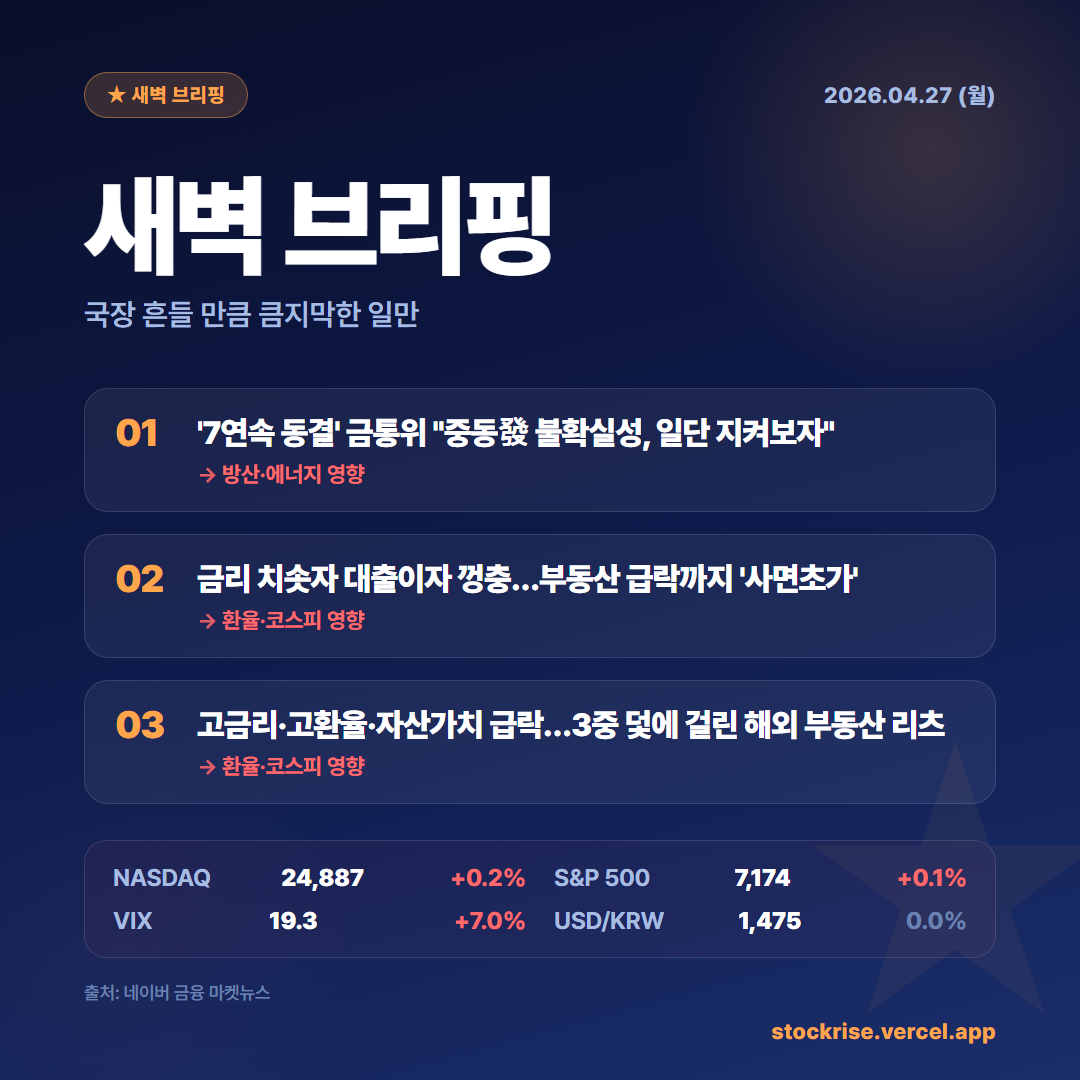
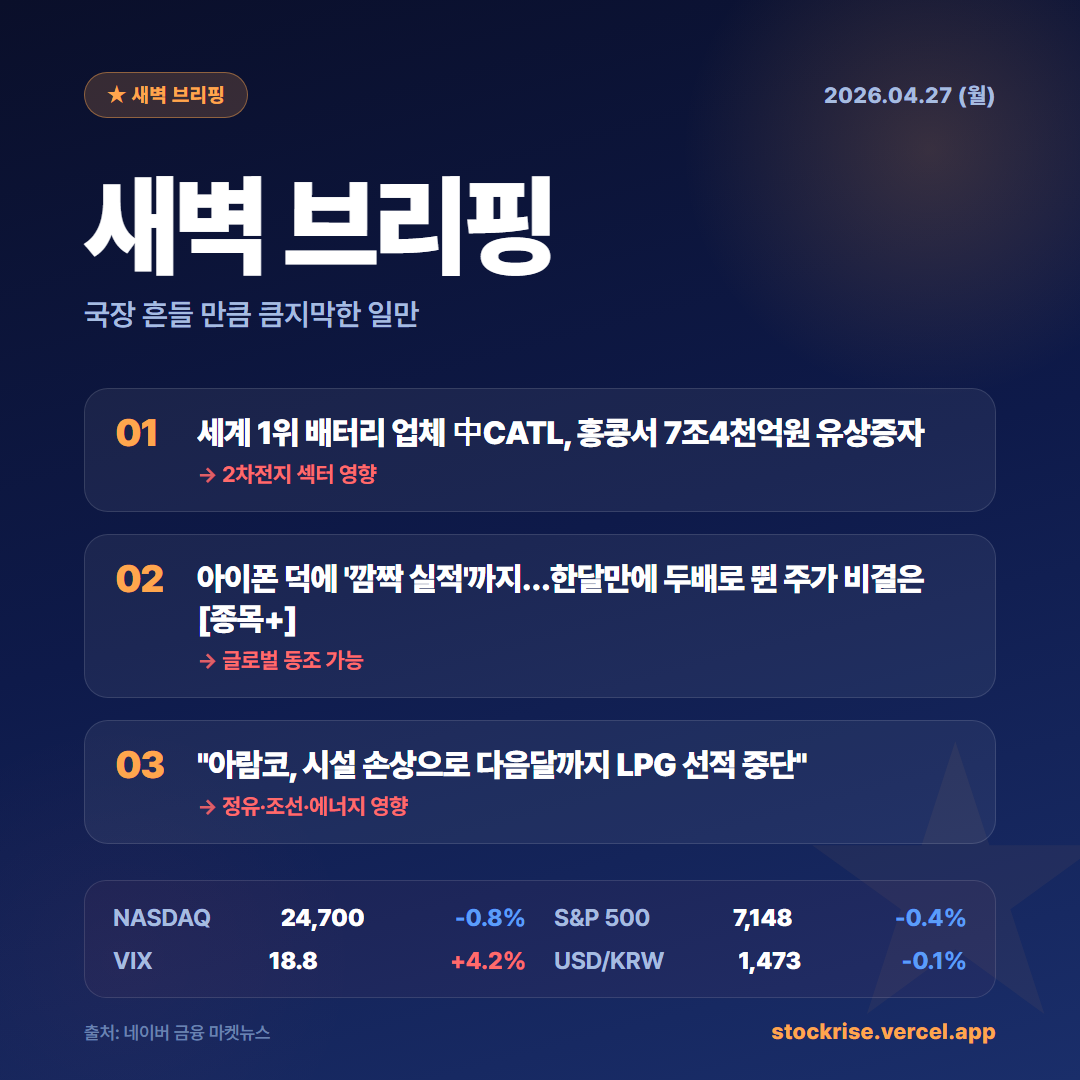
feat(cards): 새벽 브리핑·뉴욕 마감 헤드라인 큐레이션 강화
이슈:
- pre0(새벽 브리핑) 헤드라인이 한국 거시뉴스('한은 금통위') / 미시뉴스
  (ETF 상장)·중복으로 채워져 "진짜 큰 일"과 거리 있음
- pre2(뉴욕 마감)는 지수만 표시, 글로벌 헤드라인 노출 없음

수정:
- dawn_brief.py: 소스 URL → mode=RANK (조회·인용 인기 순)
  헤드라인 풀에서 다음 3중 필터 통과한 것만 채택:
  · DAWN_WHITELIST (Fed·반도체·테슬라·CATL·유가·지정학 등 80+ 키워드)
  · DAWN_BLACKLIST (리츠·회생절차·사채·단독] 등 국내 미시뉴스 차단)
  · 중복 제거 (핵심 키워드 60% 이상 겹치면 같은 사건으로 간주)
- build_pre2: dawn_data.headlines 받아 마켓 무빙 헤드라인 2개 노출
  지수·무드 박스 아래에 같은 디자인 카드로
- pre2.html.tmpl: headlines 영역 추가, 폰트·간격 조정으로 1080 유지
- DAWN_IMPACT_MAP 보강: 철강/소재, 아람코/사우디, CATL/BYD 등 명시
  키워드 매핑 우선순위 재배열 — 더 구체적인 것 먼저
- 검증: pre0·pre2 동일 헤드라인 공유 허용 (자연스러운 양분)

전·후 비교 (4/28):
  Before pre0: '한은 금통위 동결' / 'ETF 상장' / '동결 재방' (국내·중복)
  After  pre0: 'CATL 7조4천억 유상증자' / '아이폰 깜짝 실적' /
              '아람코 LPG 선적 중단' (글로벌·시장 무빙)
  Before pre2: 지수만 / 헤드라인 0개
  After  pre2: 지수 + 무드 + CATL·아이폰 헤드라인 2개

diff --git a/cards/dawn_brief.py b/cards/dawn_brief.py
@@ -25,16 +25,13 @@ except ImportError:
 
 log = logging.getLogger(__name__)
 
-# 네이버 금융 — 해외증시 > 미국주식 카테고리 (section_id2=262, section_id3=259)
-# 메인 헤드라인 페이지(mainnews) 와 달리 글로벌 시장에 집중된 풀 텍스트 헤드라인 제공.
-NAVER_NEWS_URL = (
-    'https://finance.naver.com/news/news_list.naver'
-    '?mode=LSS3D&section_id=101&section_id2=262&section_id3=259'
-)
+# 네이버 금융 — 인기 랭크 (조회수·인용 기준 큐레이션)
+# 미국주식 카테고리(section_id3=259) 보다 마켓 무빙 헤드라인 비중이 높음.
+NAVER_NEWS_URL = 'https://finance.naver.com/news/news_list.naver?mode=RANK'
 NEWS_TIMEOUT = 10
-HEADLINE_MIN_LEN = 10
+HEADLINE_MIN_LEN = 15
 HEADLINE_MAX_LEN = 70
-HEADLINE_LIMIT = config.TOP_DAWN_HEADLINES if hasattr(config, 'TOP_DAWN_HEADLINES') else 3
+FETCH_POOL = getattr(config, 'DAWN_FETCH_POOL', 30)
 
 MACRO_TICKERS = {
     'nasdaq': '^IXIC',
@@ -45,18 +42,53 @@ MACRO_TICKERS = {
 MACRO_LOOKBACK_DAYS = 14
 
 
-def _fetch_naver_headlines():
-    """네이버 금융 — 미국주식 카테고리 헤드라인.
+def _passes_filters(title):
+    """글로벌 시장 무빙 헤드라인만 통과.
 
-    이 카테고리는 편집자가 큐레이션한 미증시·글로벌 시장 뉴스만 모음.
-    `articleSubject` 셀의 title 속성에 풀 텍스트 헤드라인이 들어 있어 트렁케이션 없음.
-
-    Returns: list of {'title': str}. 실패 시 빈 리스트.
+    - 화이트리스트 (DAWN_WHITELIST) 키워드 1개 이상 매치 필수
+    - 블랙리스트 (DAWN_BLACKLIST) 키워드 매치되면 즉시 제외
     """
-    req = urllib.request.Request(
-        NAVER_NEWS_URL,
-        headers={'User-Agent': 'Mozilla/5.0'},
-    )
+    title_lc = title.lower()
+    blacklist = getattr(config, 'DAWN_BLACKLIST', []) or []
+    for bad in blacklist:
+        if bad.lower() in title_lc:
+            return False
+    whitelist = getattr(config, 'DAWN_WHITELIST', []) or []
+    if not whitelist:
+        return True  # 화이트리스트 미설정 시 전부 통과
+    for kw in whitelist:
+        if kw.lower() in title_lc:
+            return True
+    return False
+
+
+def _is_duplicate(title, accepted):
+    """간단 중복 검출 — 핵심 단어(2자 이상 한국어 명사) 60% 이상 겹치면 중복.
+
+    예: '한은 금통위 7연속 동결 ...' 와 '7연속 동결 금통위 ...' 는 같은 사건.
+    """
+    def keywords(s):
+        # 2자 이상 한글·영문·숫자 토큰
+        return set(re.findall(r'[가-힣A-Za-z0-9]{2,}', s.lower()))
+    cur = keywords(title)
+    if not cur:
+        return False
+    for prev in accepted:
+        prev_kw = keywords(prev)
+        if not prev_kw:
+            continue
+        overlap = len(cur & prev_kw) / max(len(cur), len(prev_kw))
+        if overlap >= 0.6:
+            return True
+    return False
+
+
+def _fetch_naver_headlines(limit):
+    """네이버 금융 인기랭크 → 글로벌 시장 무빙 헤드라인 N개.
+
+    화이트리스트(키워드 매치) + 블랙리스트(국내 미시뉴스 제거) + 중복 제거 적용.
+    """
+    req = urllib.request.Request(NAVER_NEWS_URL, headers={'User-Agent': 'Mozilla/5.0'})
     try:
         with urllib.request.urlopen(req, timeout=NEWS_TIMEOUT) as resp:
             raw = resp.read()
@@ -64,7 +96,6 @@ def _fetch_naver_headlines():
         log.warning("네이버 헤드라인 fetch 실패: %s", exc)
         return []
 
-    # 네이버 금융은 EUC-KR (CP949)
     for enc in ('euc-kr', 'cp949', 'utf-8'):
         try:
             text = raw.decode(enc)
@@ -75,21 +106,26 @@ def _fetch_naver_headlines():
         log.warning("네이버 헤드라인 디코딩 실패")
         return []
 
-    # `<dd class="articleSubject"><a ... title="...">` 패턴 — 풀 텍스트 헤드라인
-    pattern = r'<dd class="articleSubject"[^>]*>\s*<a[^>]*title="([^"]+)"'
-    seen = set()
+    # 인기랭크 페이지의 헤드라인 (a title 속성)
+    pattern = r'<a[^>]+title="([^"]{15,80})"[^>]*>'
+    accepted_titles = []
     out = []
-    for raw_title in re.findall(pattern, text):
+
+    for raw_title in re.findall(pattern, text)[:FETCH_POOL]:
         title = html_unescape.unescape(raw_title).strip()
-        if len(title) < HEADLINE_MIN_LEN or title in seen:
+        if len(title) < HEADLINE_MIN_LEN:
             continue
-        seen.add(title)
-        # 검열: 유사투자자문업 미신고 → 권유성 표현 자동 치환
+        if not _passes_filters(title):
+            continue
+        # 검열: 유사투자자문업 → 권유성 표현 치환
         title = ts.censor(title).strip()
         if not title or ts.has_forbidden(title):
             continue
+        if _is_duplicate(title, accepted_titles):
+            continue
+        accepted_titles.append(title)
         out.append({'title': title[:HEADLINE_MAX_LEN]})
-        if len(out) >= HEADLINE_LIMIT:
+        if len(out) >= limit:
             break
     return out
 
@@ -141,14 +177,19 @@ def _fetch_macro():
     return out
 
 
-def fetch():
-    """헤드라인 + 매크로 묶음 dict 반환.
+def fetch(headline_limit=None):
+    """헤드라인 + 매크로 묶음 dict.
 
+    Args:
+        headline_limit: 헤드라인 수 — 기본 TOP_DAWN_HEADLINES (3)
     Returns:
         {'headlines': [...], 'macro': {...}}
-        둘 다 비어있을 수 있음 — 빈 영역은 템플릿이 알아서 표시 안 함.
     """
-    headlines = _fetch_naver_headlines()
+    if headline_limit is None:
+        headline_limit = config.TOP_DAWN_HEADLINES
+    # pre0(3장) 와 pre2(2장) 동시에 쓰기 위해 넉넉히 가져옴 — 어느쪽이든 앞에서 자름
+    pool_limit = max(headline_limit, getattr(config, 'PRE2_HEADLINES_TOP', 2)) + 2
+    headlines = _fetch_naver_headlines(pool_limit)
     for h in headlines:
         h['impact'] = _impact_for(h['title'])
     return {

diff --git a/cards/config.py b/cards/config.py
@@ -35,6 +35,41 @@ SCORE_NORMALIZED_MAX = 100
 
 # ─── 카드별 표시 개수 (카드뉴스 원칙: 한 장 = 한 메시지, 정보 최소) ─
 TOP_DAWN_HEADLINES = 3     # pre0 — 새벽 브리핑 헤드라인 수
+PRE2_HEADLINES_TOP = 2     # pre2(뉴욕 마감) — 마켓 무빙 헤드라인 수
+DAWN_FETCH_POOL = 30       # 네이버 RANK 에서 가져올 후보 수 (필터 통과 후 상위 N 선택)
+
+# 글로벌 시장 영향 키워드 화이트리스트 — 새벽 브리핑·뉴욕 마감 헤드라인 필터
+# 매치 안 되면 제외 (한국 미시 뉴스·종목별 단독 뉴스 등 차단)
+DAWN_WHITELIST = [
+    # US 시장·정책
+    'fed', 'fomc', '연준', '금리', 'cpi', '인플레', '파월', '미국채',
+    '나스닥', '다우', 's&p', 'sp500', '뉴욕', 'ny', '미증시', '미국',
+    # 빅테크·반도체
+    '엔비디아', 'nvidia', 'nvda', 'tsmc', '애플', 'apple', 'aapl',
+    '테슬라', 'tesla', 'tsla', '아마존', 'amzn', '메타', 'meta',
+    '마이크로소프트', 'msft', '구글', 'google', 'goog',
+    '빅테크', 'ai', 'hbm', '반도체', 'asml', '브로드컴',
+    # 에너지·원자재
+    '유가', 'wti', '브렌트', 'opec', '아람코', '사우디', '원유',
+    '천연가스', 'lng', '구리', '금값', '귀금속',
+    # 지정학·정책
+    '트럼프', '관세', 'tariff', '무역분쟁', '무역전쟁',
+    '우크라', '러시아', '이란', '중동', '북한', '미사일', '지정학',
+    # 중국·유럽
+    '중국', '시진핑', 'catl', 'byd', '알리바바', '항셍',
+    'ecb', '유럽', '독일', '영국',
+    # 환율·암호화폐·실적
+    '달러', '환율', '엔화', '위안화',
+    '비트코인', 'btc', '이더리움',
+    '실적', '어닝', 'earnings',
+]
+
+# 블랙리스트 — 글로벌·마켓 키워드 매치돼도 이 단어 들어가면 제외
+DAWN_BLACKLIST = [
+    '리츠', '회생절차', '미상환', '사채', '단독]',
+    '제이알', '코스닥', '코스피',  # 한국 종목·단독 뉴스 패턴
+    '청약', '공모주', '신고가', '관리종목',
+]
 TOP_THEMES_PRE = 4         # pre  — 키워드 카드 수
 TOP_HOT_THEMES = 2         # pre  — 강조 hot 처리 상위 N
 TOP_THEMES_PRE3 = 4        # pre3 — 테마 수
@@ -97,24 +132,29 @@ FORBIDDEN_WORDS = [
 # ─── 새벽 브리핑(pre0) — 헤드라인 키워드 → 국장 영향 한 줄 매핑 ─
 # 첫 매치만 사용. 매치 없으면 영향 줄 비움.
 DAWN_IMPACT_MAP = [
-    (['fomc', 'fed', '연준', '금리', 'rate', 'cpi', '인플레', '파월'],
-     '환율·코스피 영향'),
-    (['엔비디아', 'nvidia', 'nvda', 'tsmc', '반도체', 'hbm', '파운드리', 'ai 칩', 'asml'],
+    # 우선순위 위 → 아래. 더 구체적인 것 먼저.
+    (['철강', '소재'],
+     '국내 철강·소재주 영향'),
+    (['아람코', '사우디', '유가', 'wti', '브렌트', '석유', 'opec', '천연가스', 'lng'],
+     '정유·조선·에너지 영향'),
+    (['catl', 'byd', '배터리', '전기차', 'tesla', '테슬라', 'tsla'],
+     '2차전지 섹터 영향'),
+    (['엔비디아', 'nvidia', 'nvda', 'tsmc', 'hbm', '파운드리', 'ai 칩', 'asml', 'sk하이닉스'],
      'HBM·반도체 섹터 영향'),
+    (['반도체', '브로드컴'],
+     '반도체 섹터 영향'),
+    (['fomc', 'fed', '연준', '파월', 'cpi', '인플레', '미국채'],
+     '환율·코스피 영향'),
+    (['금리 인하', '금리 인상', '금리 동결', '금리'],
+     '환율·증시 변동성 영향'),
     (['관세', 'tariff', '트럼프', '무역분쟁', '무역전쟁'],
      '수출주·환율 영향'),
     (['우크라', '러시아', '이란', '중동', '북한', '미사일', '지정학'],
      '방산·에너지 영향'),
-    (['유가', 'wti', '브렌트', '석유', 'opec'],
-     '정유·조선·에너지 영향'),
-    (['전기차', 'tesla', '테슬라', '배터리'],
-     '2차전지 섹터 영향'),
     (['애플', 'apple', 'aapl', 'amazon', 'amzn', 'meta', 'msft', 'google', 'goog'],
      '국내 빅테크 동조 가능'),
-    (['삼성', 'sk하이닉스', 'tsmc', '삼성전자'],
+    (['삼성', '삼성전자'],
      '국내 대형 기술주 영향'),
-    (['금리 인하', '금리 동결', '금리 인상'],
-     '환율·증시 변동성 영향'),
     (['실적', '어닝', 'earnings'],
      '글로벌 동조 가능'),
 ]

diff --git a/cards/data_loader.py b/cards/data_loader.py
@@ -345,10 +345,18 @@ def build_pre(day):
     }
 
 
-def build_pre2(day, us_indices):
-    """카드 2 — 미국 마감. 3 지수 + mood 한 줄."""
+def build_pre2(day, us_indices, dawn_data=None):
+    """카드 2 — 미국 마감. 3 지수 + 무드 + 마켓 무빙 헤드라인 N개."""
     if not us_indices:
         return None
+    headlines = []
+    if dawn_data:
+        for h in (dawn_data.get('headlines') or [])[:config.PRE2_HEADLINES_TOP]:
+            headlines.append({
+                'rank': f"{len(headlines) + 1:02d}",
+                'title': h['title'],
+                'impact': h.get('impact') or '',
+            })
     return {
         'series': 'pre',
         'date_full': day['date_full'],
@@ -365,6 +373,7 @@ def build_pre2(day, us_indices):
             if v
         ],
         'mood_text': ts.market_mood(us_indices),
+        'headlines': headlines,
     }
 
 
@@ -552,7 +561,7 @@ def build_all(yyyymmdd, us_indices=None, kr_indices=None, dawn_data=None, fallba
     return {
         'pre0':    build_pre0(day, dawn_data),
         'pre':     build_pre(day),
-        'pre2':    build_pre2(day, us_indices),
+        'pre2':    build_pre2(day, us_indices, dawn_data),
         'pre3':    build_pre3(day),
         'leader':  build_leader(day),
         'leader2': build_leader2(day),

diff --git a/cards/generate.py b/cards/generate.py
@@ -121,6 +121,9 @@ def _validate_text(cards):
         # pre·pre3·close·close2·leader2 — 가장 강한 테마는 시리즈 다수에 등장 가능
         if set(unique) <= {'pre', 'pre3', 'close', 'close2', 'leader2'}:
             continue
+        # pre0(새벽 브리핑)·pre2(뉴욕 마감) — 같은 마켓 무빙 헤드라인 공유 OK
+        if set(unique) <= {'pre0', 'pre2'}:
+            continue
         failures.append(f"중복 문장 {unique}: {text!r}")
     return failures
 
